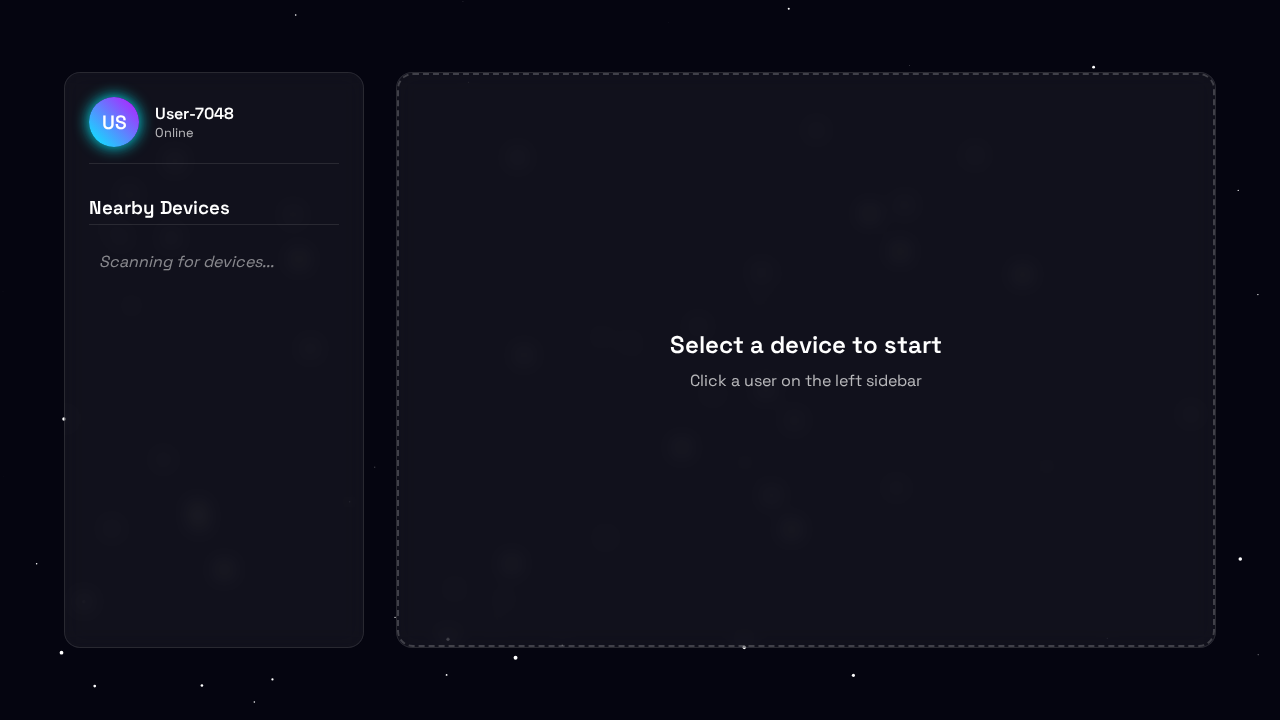
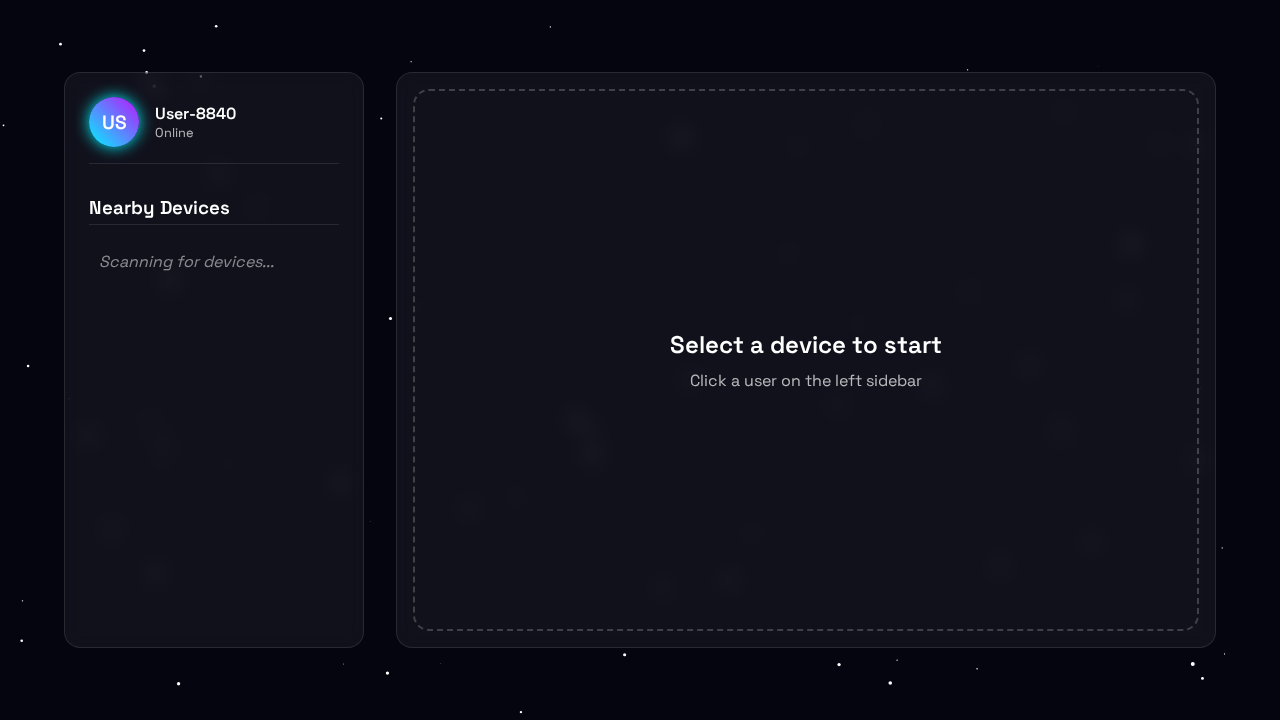
feat: Implement QuickSend AirDrop alternative
- Added `aws4fetch` dependency for R2 S3 signing
- Configured `wrangler.toml` with R2 and Supabase credentials
- Implemented `src/r2.js` for presigned URL generation and CORS setup
- Created `src/ui.html` with Cyberpunk UI, Supabase Realtime, and animations
- Added responsive CSS for mobile/touch compatibility
- Implemented `src/index.js` to serve UI and handle API requests
- Added automatic CORS configuration on worker start

Changed region(s): [[0.1562, 0.1528, 0.1875, 0.1833]]

diff --git a/src/ui.html b/src/ui.html
@@ -52,6 +52,34 @@
             z-index: 10;
         }
 
+        /* Responsive Design for Mobile */
+        @media (max-width: 768px) {
+            .container {
+                grid-template-columns: 1fr;
+                grid-template-rows: 200px 1fr; /* Sidebar at top, smaller height */
+                height: 95vh;
+                gap: 1rem;
+            }
+
+            .sidebar {
+                padding: 1rem;
+            }
+
+            .my-profile {
+                margin-bottom: 0.5rem;
+                padding-bottom: 0.5rem;
+            }
+
+            .online-users-list {
+                /* On mobile, let it scroll horizontally if we wanted, but vertical list is fine if limited height */
+                max-height: 120px;
+            }
+
+            .main-area h2 {
+                font-size: 1.2rem;
+            }
+        }
+
         /* Sidebar: User Profile & Online List */
         .sidebar {
             background: var(--glass);
@@ -126,6 +154,7 @@
             align-items: center;
             position: relative;
             overflow: hidden;
+            padding: 1rem;
         }
 
         .drop-zone {
@@ -138,6 +167,7 @@
             border: 2px dashed rgba(255,255,255,0.2);
             border-radius: 16px;
             transition: all 0.3s ease;
+            padding: 10px;
         }
 
         .drop-zone.drag-over {
@@ -150,6 +180,8 @@
             display: flex;
             gap: 1rem;
             margin-top: 2rem;
+            flex-wrap: wrap;
+            justify-content: center;
         }
 
         .btn {
@@ -163,6 +195,8 @@
             transition: transform 0.2s;
             text-transform: uppercase;
             letter-spacing: 1px;
+            /* Touch target size */
+            min-height: 44px;
         }
 
         .btn:hover {
@@ -175,6 +209,7 @@
             display: flex;
             gap: 10px;
             width: 80%;
+            max-width: 400px;
         }
 
         input[type="text"] {
@@ -219,6 +254,7 @@
             border-radius: 12px;
             text-align: center;
             max-width: 400px;
+            width: 90%;
             box-shadow: 0 0 30px rgba(0, 243, 255, 0.2);
         }
 
